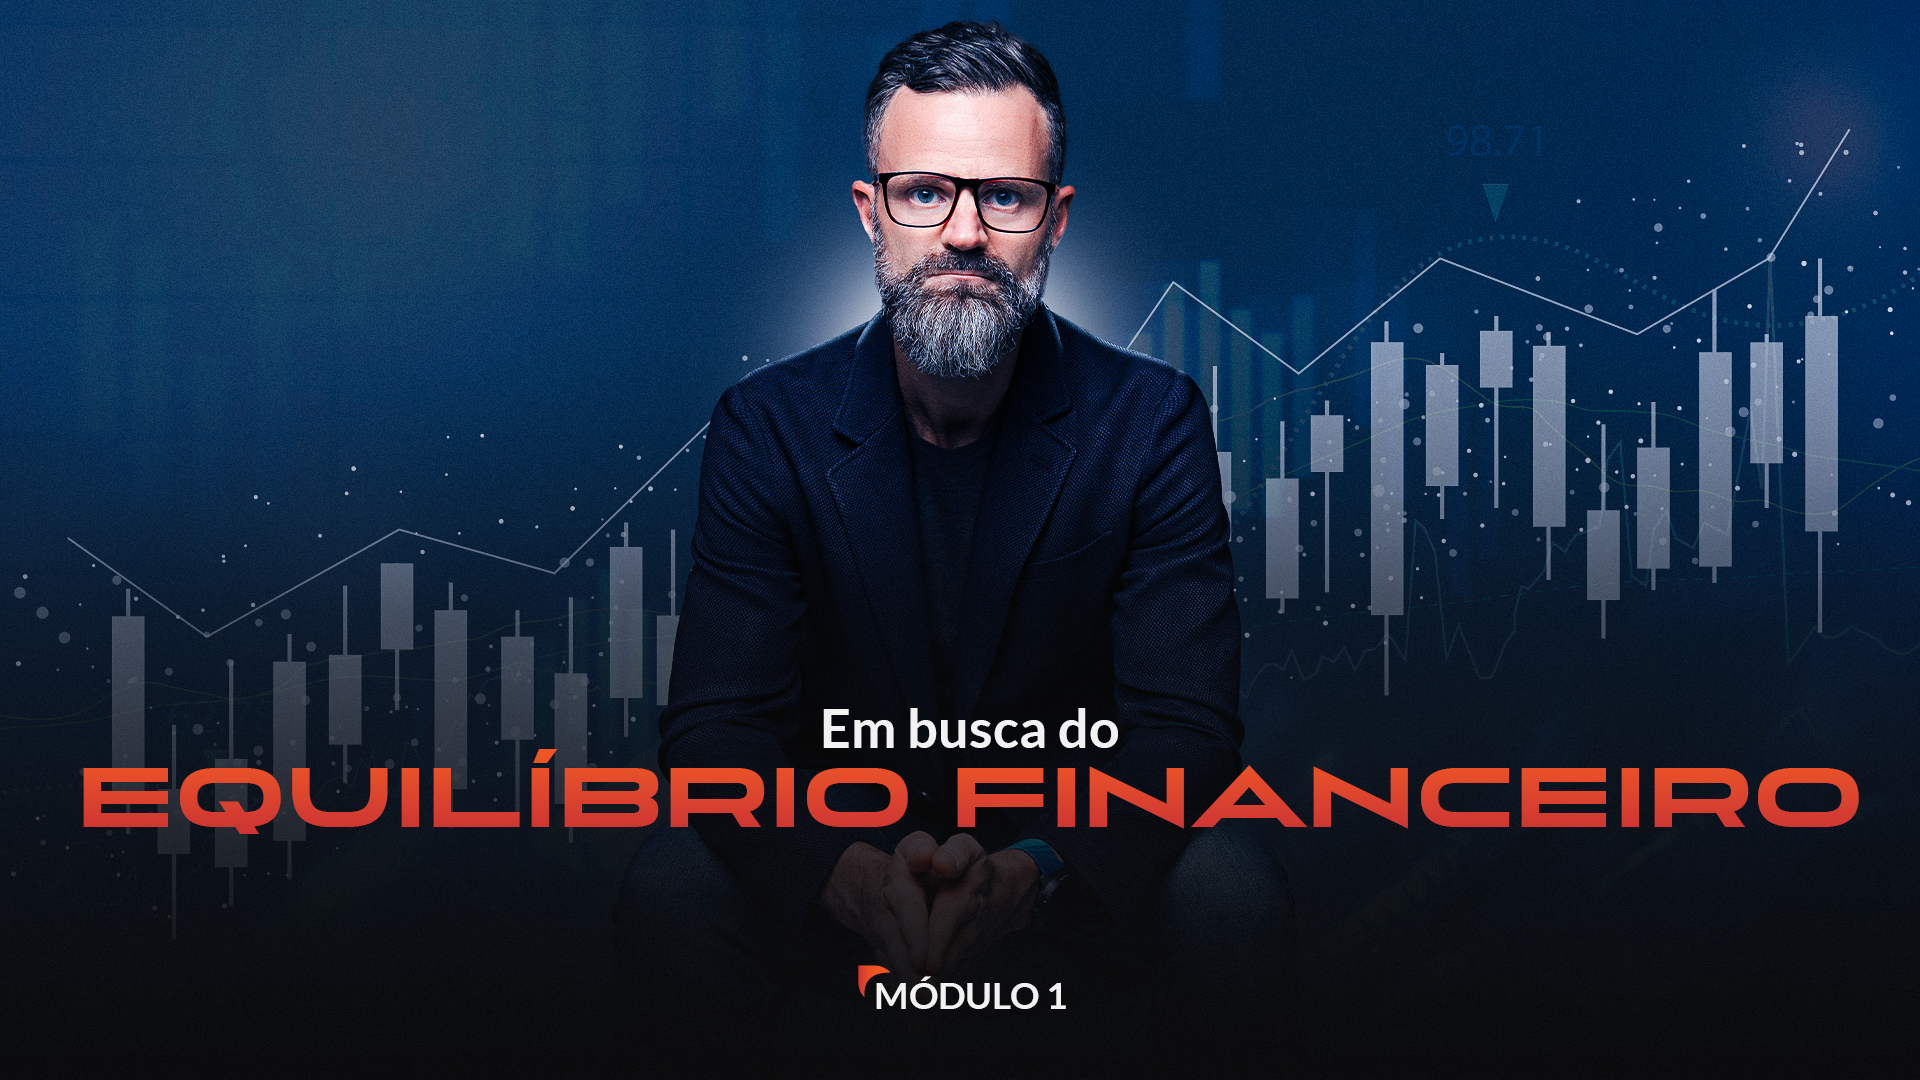
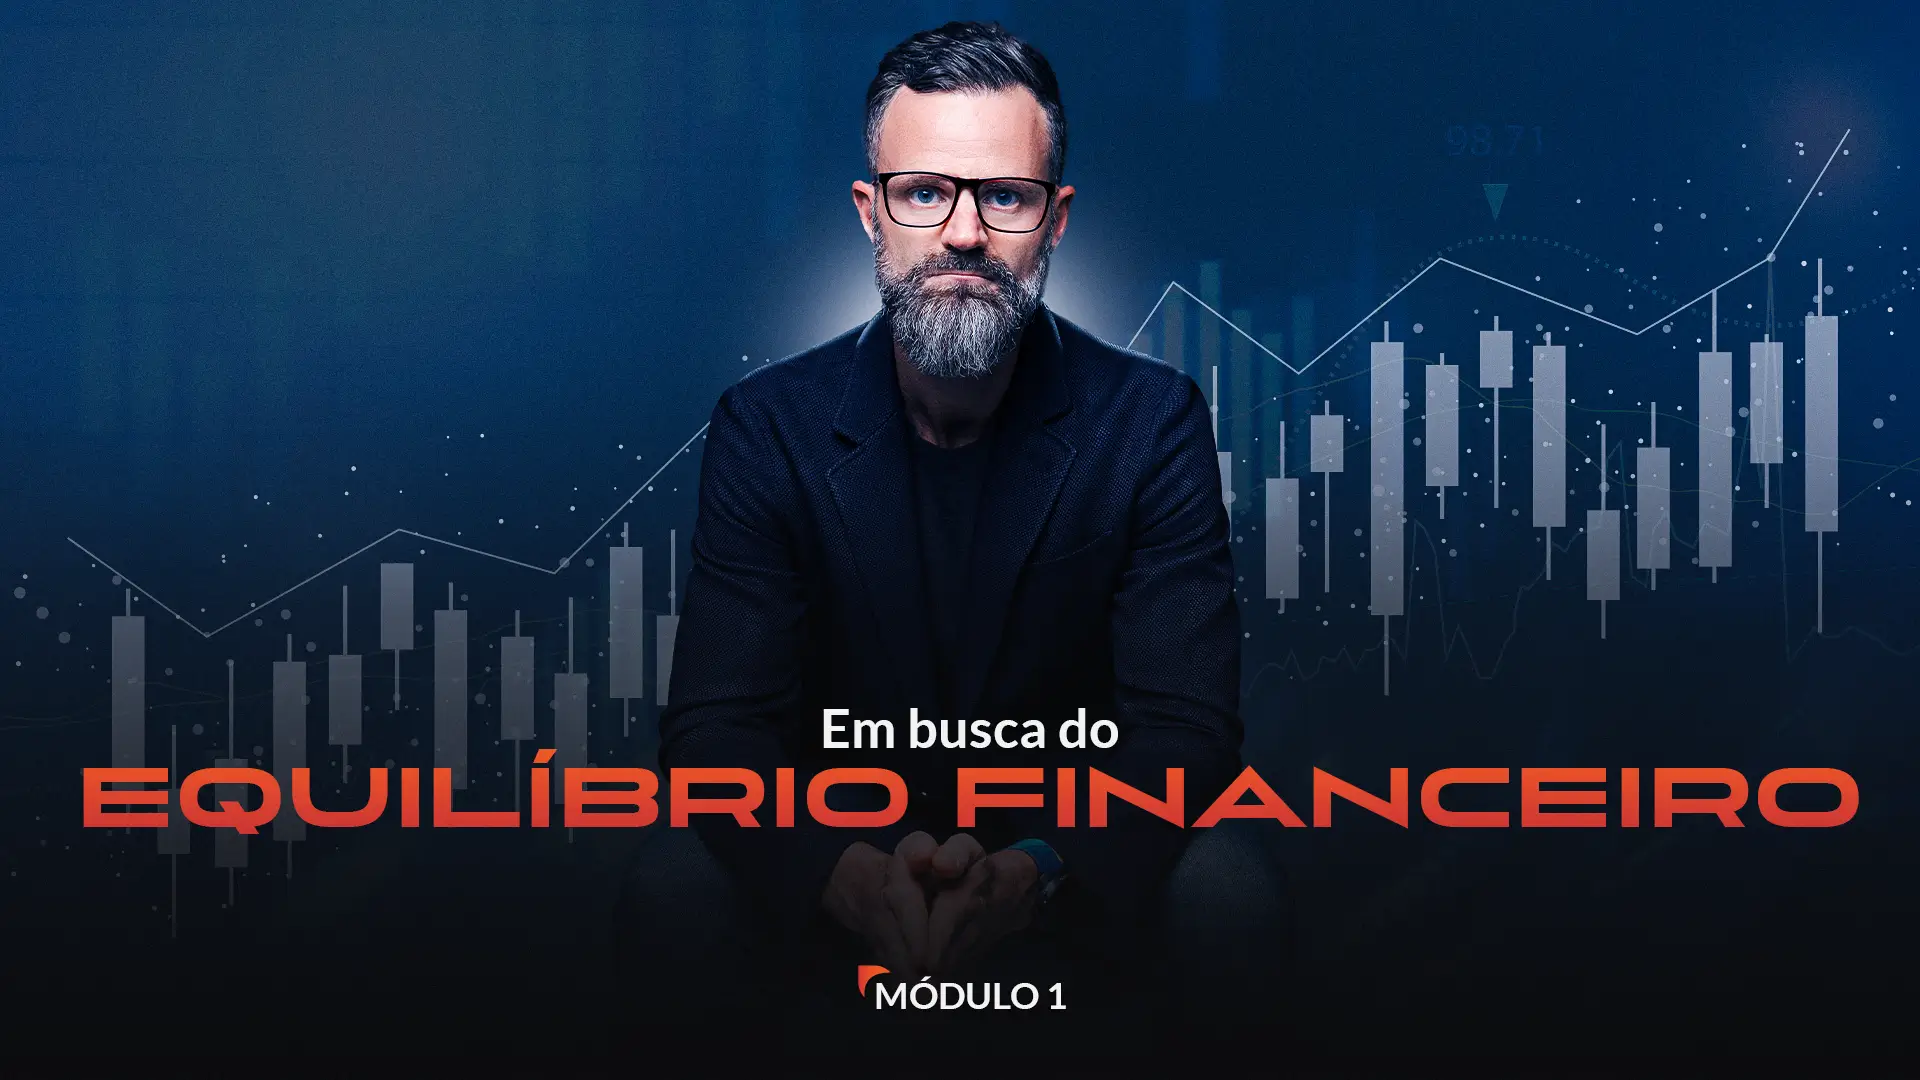
img and copy changes

diff --git a/src/components/home/SectionBenefits.tsx b/src/components/home/SectionBenefits.tsx
@@ -49,7 +49,7 @@ export function SectionBenefits() {
                         <ul className="flex flex-col gap-4 text-left font-bold">
                             <li className="bg-primary-white flex items-center justify-start gap-3 rounded-full px-3 py-2">
                                 <BadgeCheck color="var(--color-primary-orange)" />
-                                <p>+20 horas de conteúdo</p>
+                                <p>+12 horas de conteúdo</p>
                             </li>
                             <li className="bg-primary-white flex items-center justify-start gap-3 rounded-full px-3 py-2">
                                 <BadgeCheck color="var(--color-primary-orange)" />
@@ -57,7 +57,7 @@ export function SectionBenefits() {
                             </li>
                             <li className="bg-primary-white flex items-center justify-start gap-3 rounded-full px-3 py-2">
                                 <BadgeCheck color="var(--color-primary-orange)" />
-                                <p>38 aulas em vídeo</p>
+                                <p>38 aulas gravadas</p>
                             </li>
                             <li className="bg-primary-white flex items-center justify-start gap-3 rounded-full px-3 py-2">
                                 <BadgeCheck color="var(--color-primary-orange)" />

diff --git a/src/components/home/SectionFAQ.tsx b/src/components/home/SectionFAQ.tsx
@@ -85,6 +85,19 @@ export function SectionFAQ() {
                                 sem enrolação.
                             </AccordionContent>
                         </AccordionItem>
+
+                        <AccordionItem value="item-5">
+                            <AccordionTrigger>
+                                As aulas são gravadas ou ao vivo?
+                            </AccordionTrigger>
+                            <AccordionContent>
+                                Todas as aulas são gravadas! Permitindo você a
+                                assisti-las quando quiser e no seu ritmo. Além
+                                de que você terá acesso vitalício ao curso,
+                                podendo revisitar o conteúdo sempre que
+                                precisar.
+                            </AccordionContent>
+                        </AccordionItem>
                     </Accordion>
                 </GridContainer>
             </div>

diff --git a/src/components/ui/BgImage.tsx b/src/components/ui/BgImage.tsx
@@ -1,5 +1,5 @@
 import Image from 'next/image'
-import fotoBg from '../../../public/velas2.webp'
+import fotoBg from '../../../public/imagemdefundologin.webp'
 
 export function BgImage() {
     return (
@@ -11,12 +11,10 @@ export function BgImage() {
                     fill
                     style={{ objectFit: 'cover' }}
                     placeholder="blur"
-                    className="bg-cover bg-center bg-no-repeat"
+                    className="bg-cover bg-center bg-no-repeat opacity-60"
                     priority
                 />
             </div>
-
-            <div className="bg-primary-blue/60 absolute inset-0 -z-10 backdrop-blur-xs" />
         </>
     )
 }

diff --git a/src/components/home/SectionHero.tsx b/src/components/home/SectionHero.tsx
@@ -7,7 +7,7 @@ import { Header } from '@/components/header'
 
 export function SectionHero() {
     return (
-        <section className="relative">
+        <section className="bg-primary-blue relative -z-30">
             <Header />
             <BgImage />
             <div className="relative flex h-80 w-full items-center justify-center md:h-120">
